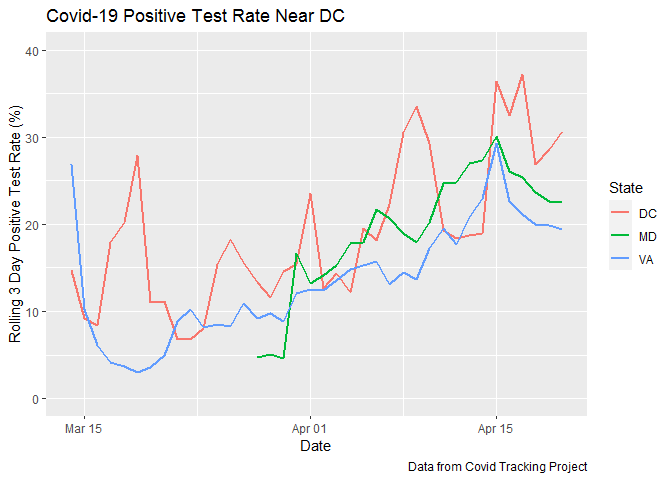
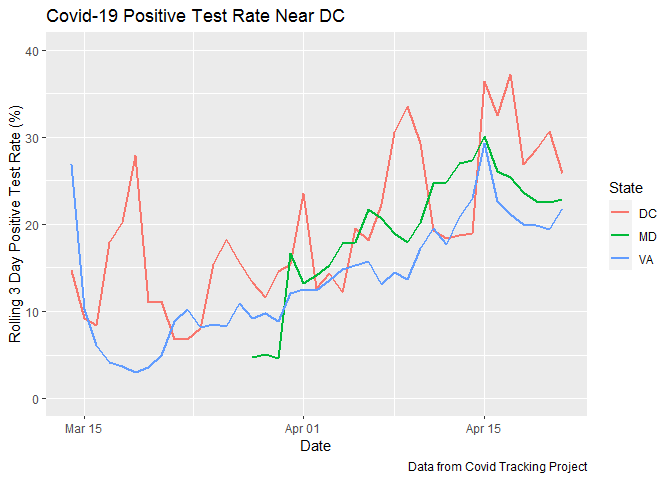
Morning 22 April update

diff --git a/Markdown/Pos_Test_Rate.md b/Markdown/Pos_Test_Rate.md
@@ -1,6 +1,6 @@
 Positive Covid-19 Test Rate Increases Around DC
 ================
-4/21/2020
+4/22/2020
 
 The number of Covid-19 tests conducted in the DC area increased
 considerably through the first part of April and has generally plateaued
@@ -19,14 +19,14 @@ Despite plateauing or decreasing numbers of tests in the area, the
 cumulative positive test rate has increased over time since the rates
 spiked in mid-March, when fewer Covid-19 tests were being conducted.
 Right now, the cumulate positive rate in DC is 20.7%, the rate in
-Maryland is 19.2%, and the rate in Virginia is 15.8%.
+Maryland is 19.3%, and the rate in Virginia is 16.2%.
 
 ![](Pos_Test_Rate_files/figure-gfm/pos_rate_cumulative-1.png)<!-- -->
 
 The recent increases in positive test rates are more pronounced when
 displayed as recent, rather than cumulative, averages. The average
-positive test rate between 2020-04-18 and 2020-04-20 was 30.7% in DC,
-22.5% in Maryland, and 19.4% in Virginia.  
+positive test rate between 2020-04-19 and 2020-04-21 was 25.9% in DC,
+22.8% in Maryland, and 21.8% in Virginia.  
 \` ![](Pos_Test_Rate_files/figure-gfm/rolling_pos_rate-1.png)<!-- -->
 
 New York state has generally had the highest testing rate of any state,
